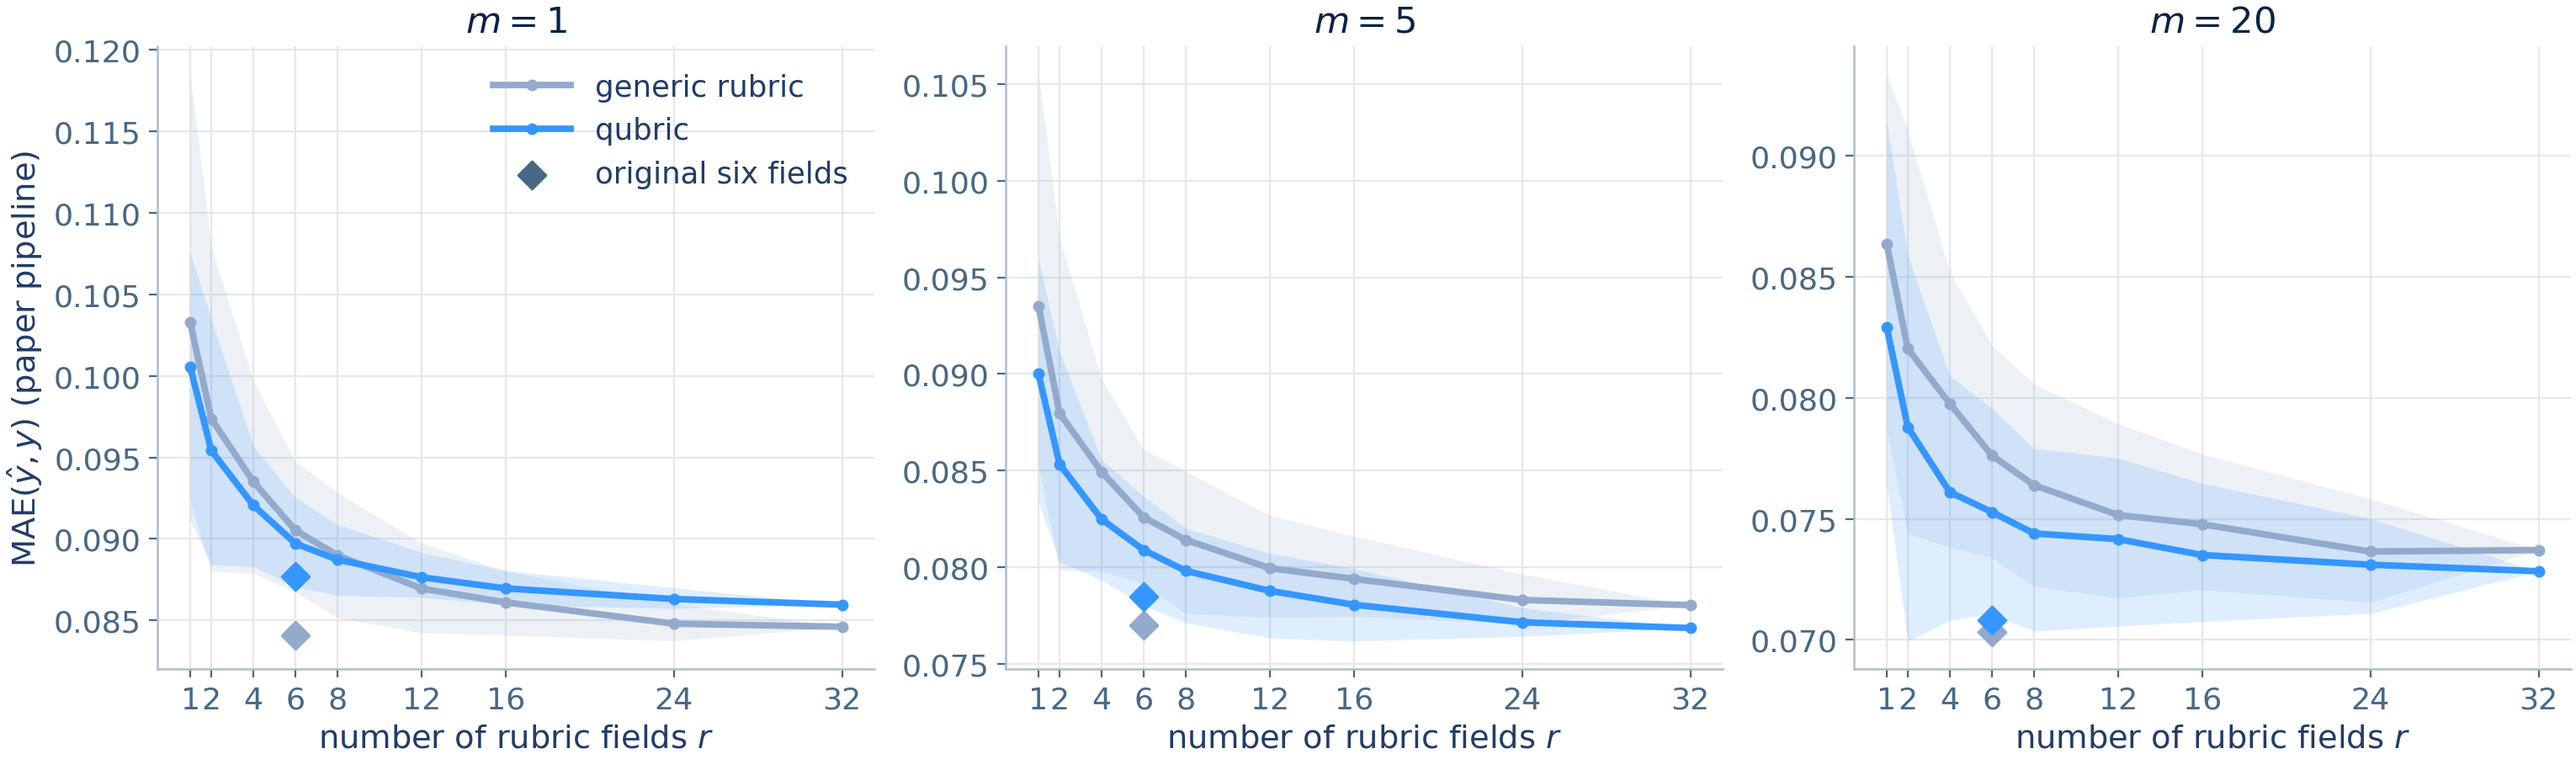
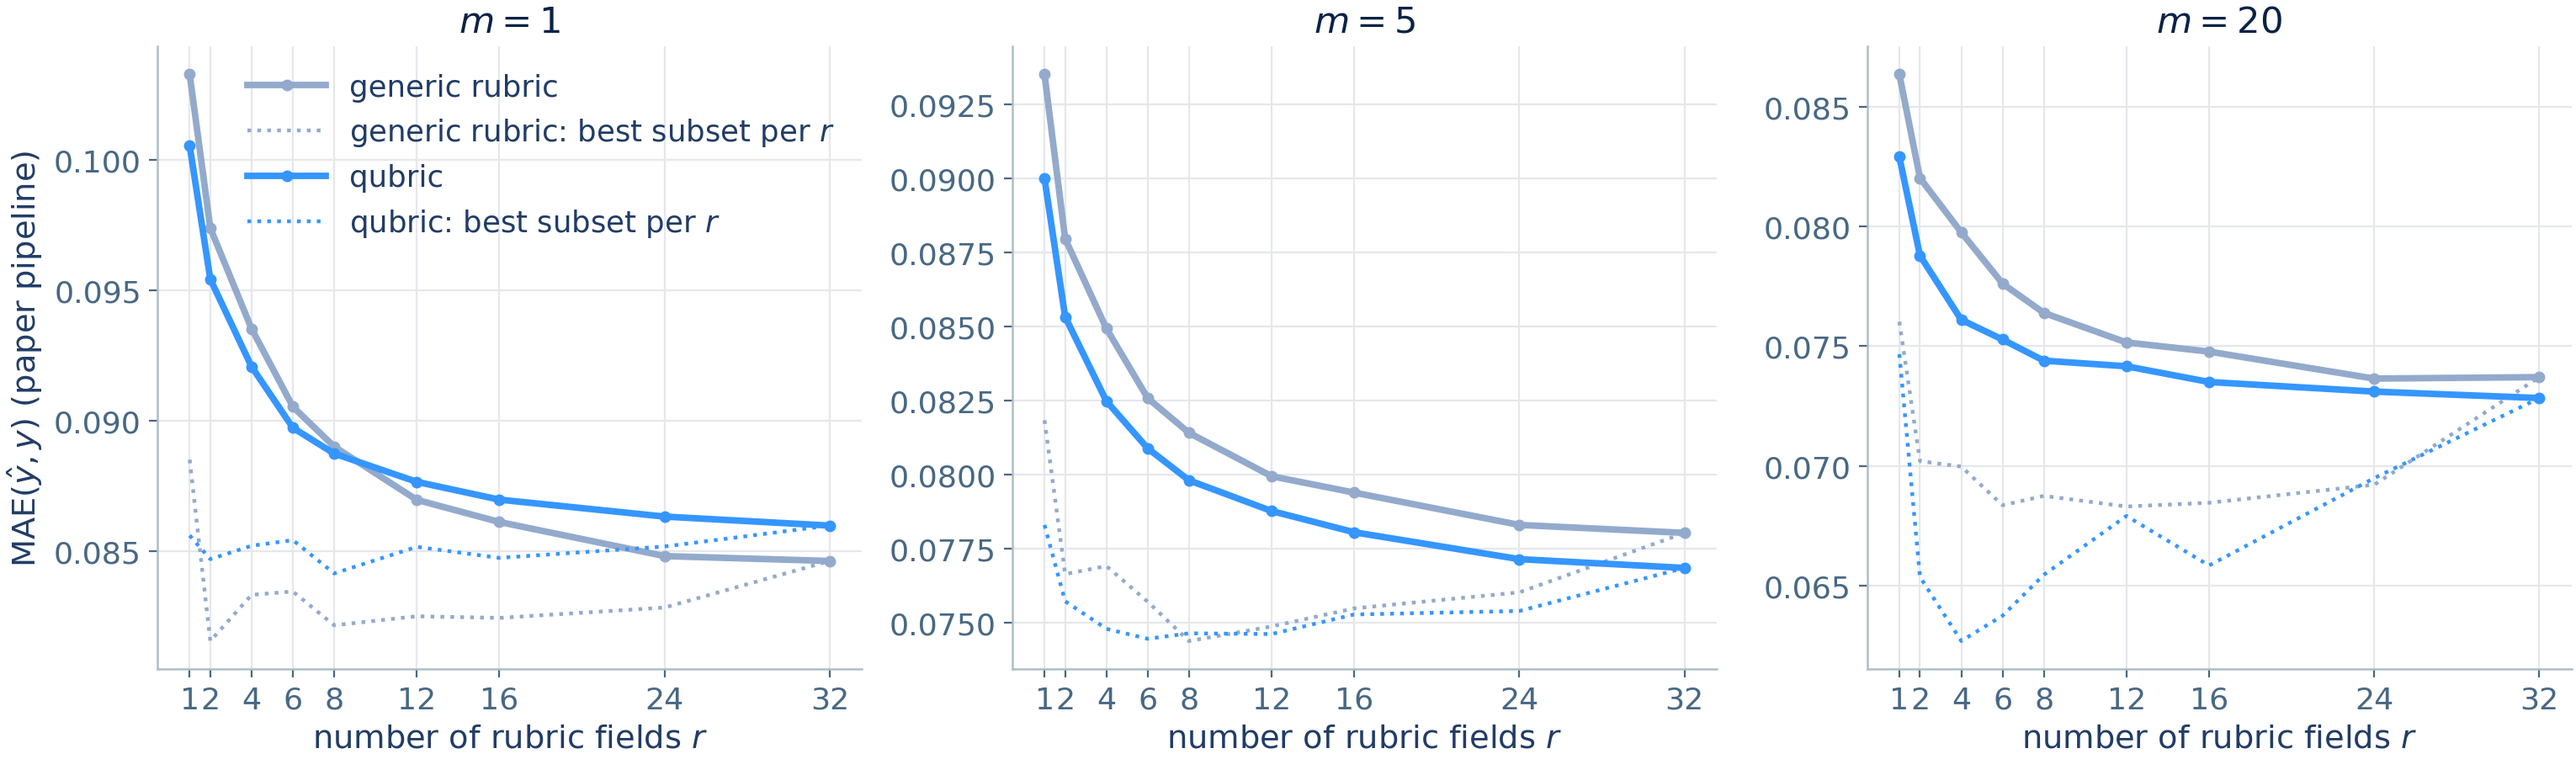
sensitivity: drop orig-6 diamond, add best-subset-per-r dotted line
Claude-Session: https://claude.ai/code/session_01RGusFFXzoPTkSKgzzDLjNv

diff --git a/scripts/rubric_sens_paper.py b/scripts/rubric_sens_paper.py
@@ -209,29 +209,33 @@ def render(results):
                                  'comparator'),
                                 ('qspec', 'qubric', 'focus')):
             st = hv_style.ROLES[role]
-            for n_refs, ls in (('107', '-'), ('20', '--')):
-                if n_refs not in results[arm]:
+            old_style = m0 in results[arm]          # pre-n-sweep cache
+            variants = ((None, '-'),) if old_style \
+                else (('107', '-'), ('20', '--'))
+            for n_refs, ls in variants:
+                res = (results[arm][m0] if old_style
+                       else results[arm].get(n_refs, {}).get(m0))
+                if res is None:
                     continue
-                res = results[arm][n_refs][m0]
                 rs = np.array(RS)
                 mean = np.array([res[str(r)]['mean'] for r in RS])
                 sem = np.array([res[str(r)].get('sem', 0) for r in RS])
+                lab = nice if old_style else f'{nice} ($n$={n_refs})'
                 ax.fill_between(rs, mean - sem, mean + sem,
                                 color=st['color'], alpha=.18, lw=0)
                 ax.plot(rs, mean, color=st['color'], lw=2.8, ls=ls,
-                        marker='o', ms=4,
-                        label=f'{nice} ($n$={n_refs})')
-                if n_refs == '107':
-                    ax.scatter([6], [res['orig6']], marker='D', s=70,
-                               color=st['color'], zorder=5)
+                        marker='o', ms=4, label=lab)
+                if ls == '-':
+                    best = np.array([res[str(r)]['min'] for r in RS])
+                    ax.plot(rs, best, color=st['color'], lw=1.6, ls=':',
+                            label=(f'{nice}: best subset per $r$'
+                                   if m0 == '1' else None))
         ax.set_title(f'$m = {m0}$', fontsize=SZ['label'],
                      color=hv_style.INK_TITLE)
         ax.set_xlabel('number of rubric fields $r$',
                       fontsize=SZ['subtitle'])
         ax.set_xticks(RS)
         ax.tick_params(labelsize=SZ['tick'])
-    axes[0].scatter([], [], marker='D', s=70, color=hv_style.INK_MUTE,
-                    label='original six fields')
     axes[0].set_ylabel('MAE$(\\hat{y}, y)$ (paper pipeline)',
                        fontsize=SZ['subtitle'])
     axes[0].legend(fontsize=SZ['legend'] - 1, handlelength=2.6)
